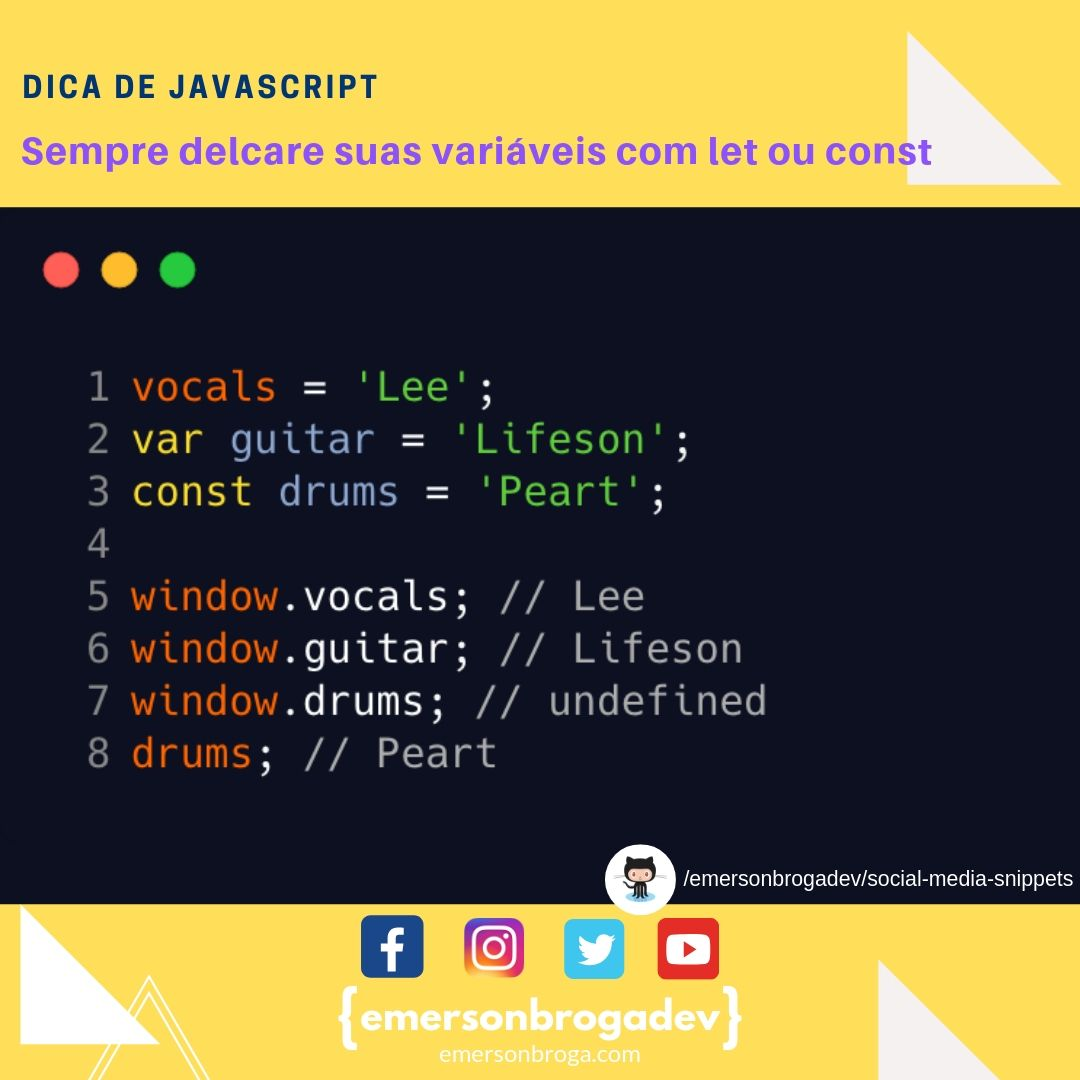
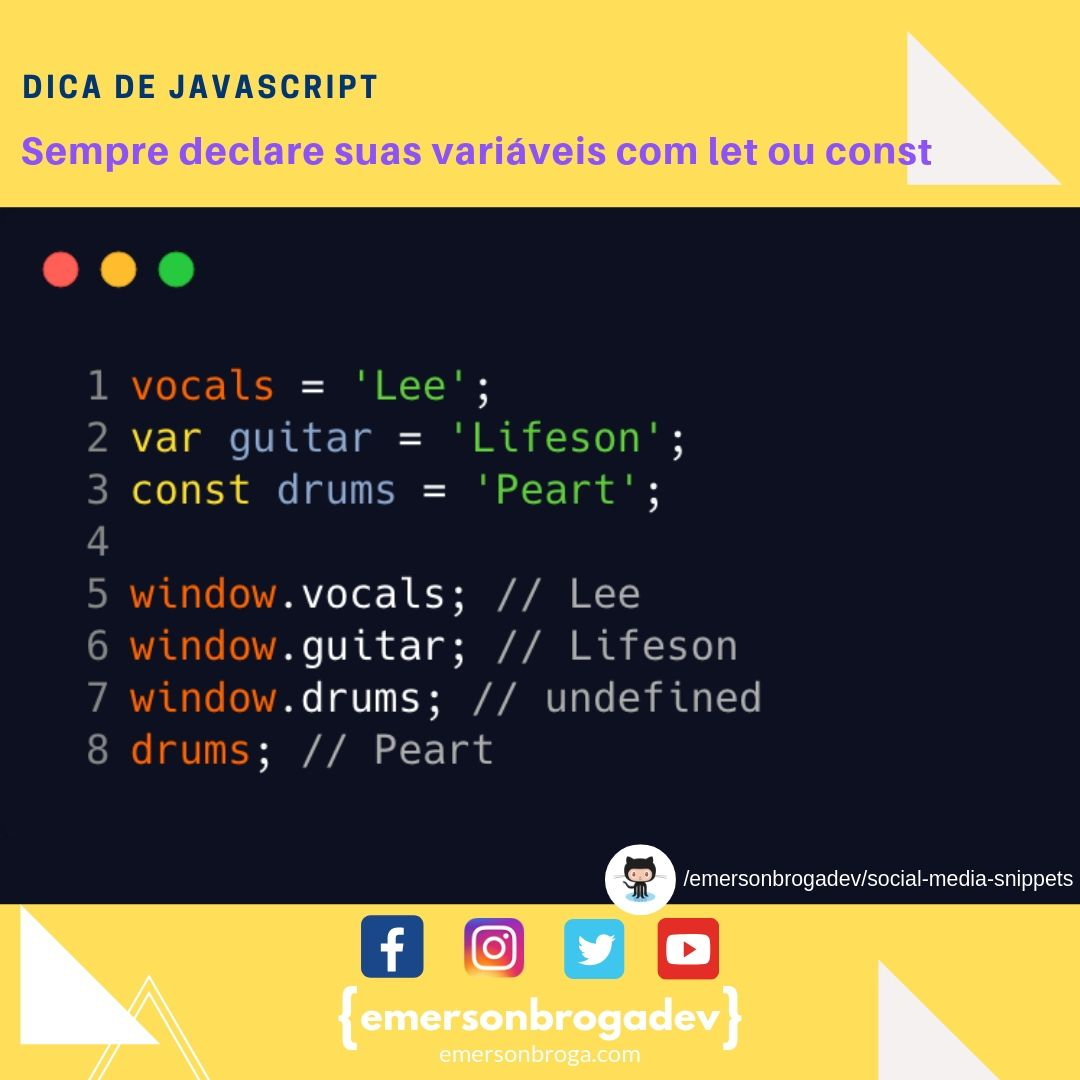
typo fix and image change

diff --git a/README.md b/README.md
@@ -21,7 +21,7 @@ Olá! Se você acompanha as redes sociais do @emersonbrogadev e também o site [
 
 ### Snippets
 
-[2019-08-22 - Sempre delcare suas variáveis com let ou const](https://github.com/emersonbrogadev/social-media-snippets/blob/master/content/2019-08-22-always-declare-variables-with-let-or-const/README.md)
+[2019-08-22 - Sempre declare suas variáveis com let ou const](https://github.com/emersonbrogadev/social-media-snippets/blob/master/content/2019-08-22-always-declare-variables-with-let-or-const/README.md)
 
 [2019-08-20 - Promise.all()](https://github.com/emersonbrogadev/social-media-snippets/blob/master/content/2019-08-20-promise-all/README.md)
 
